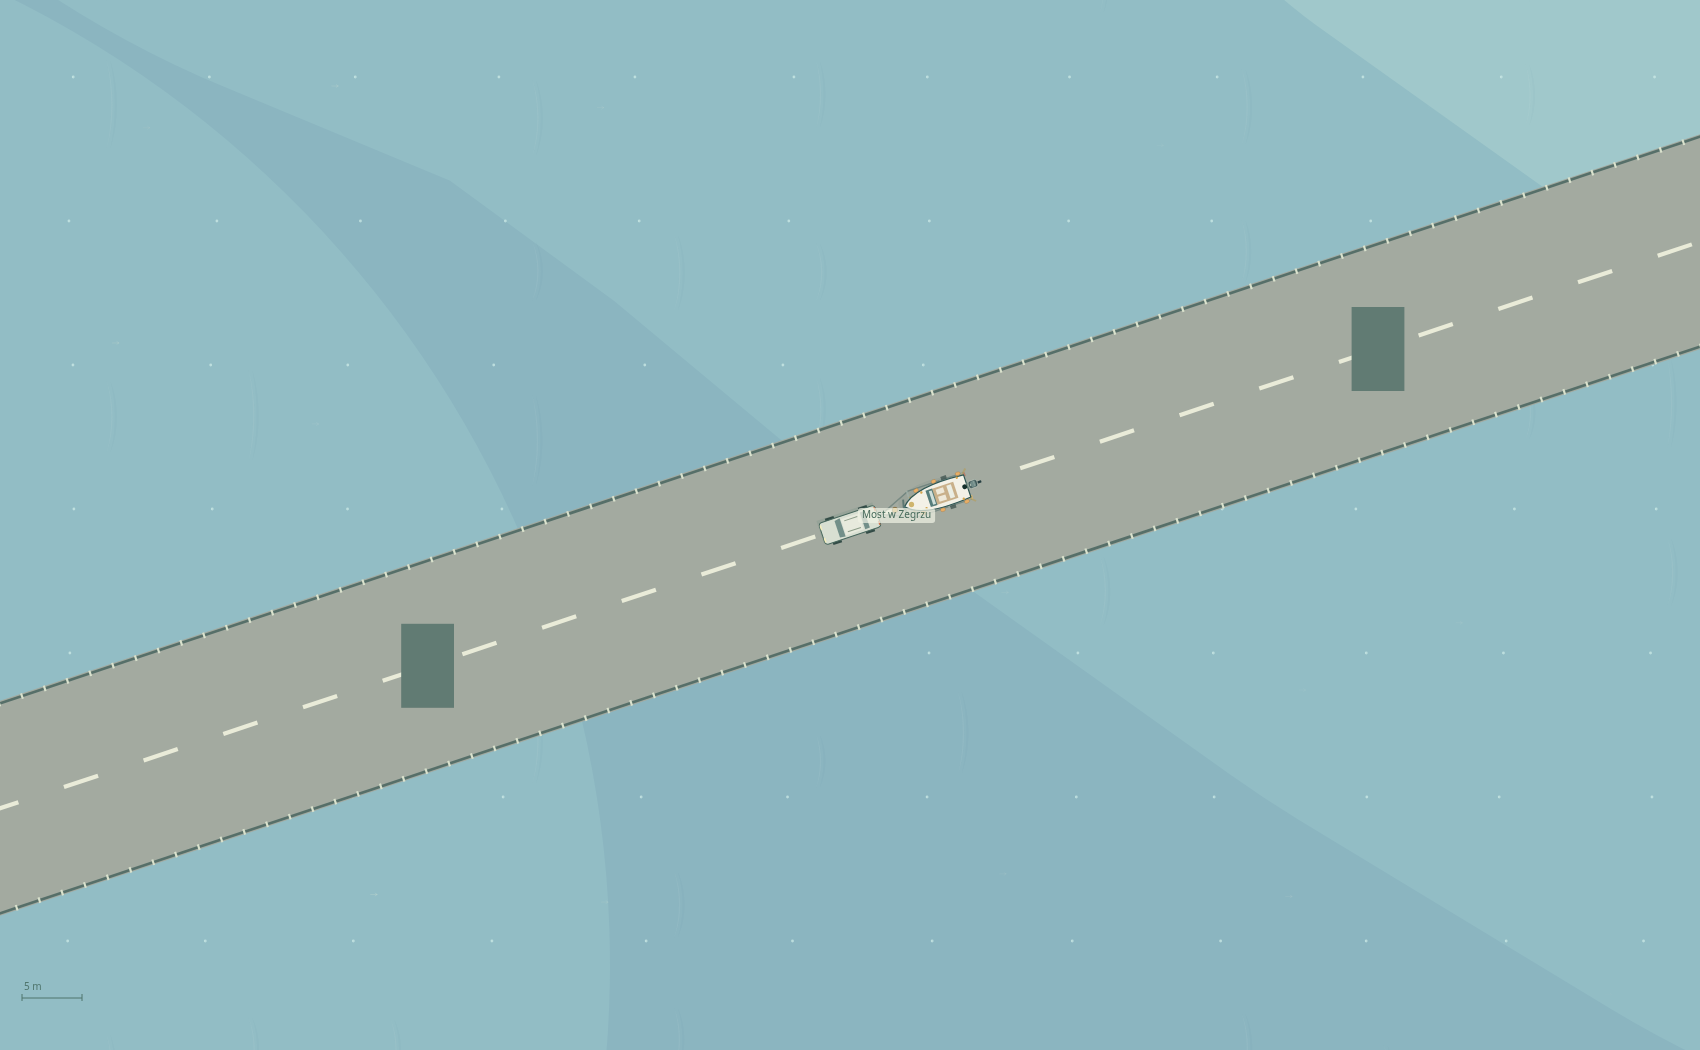
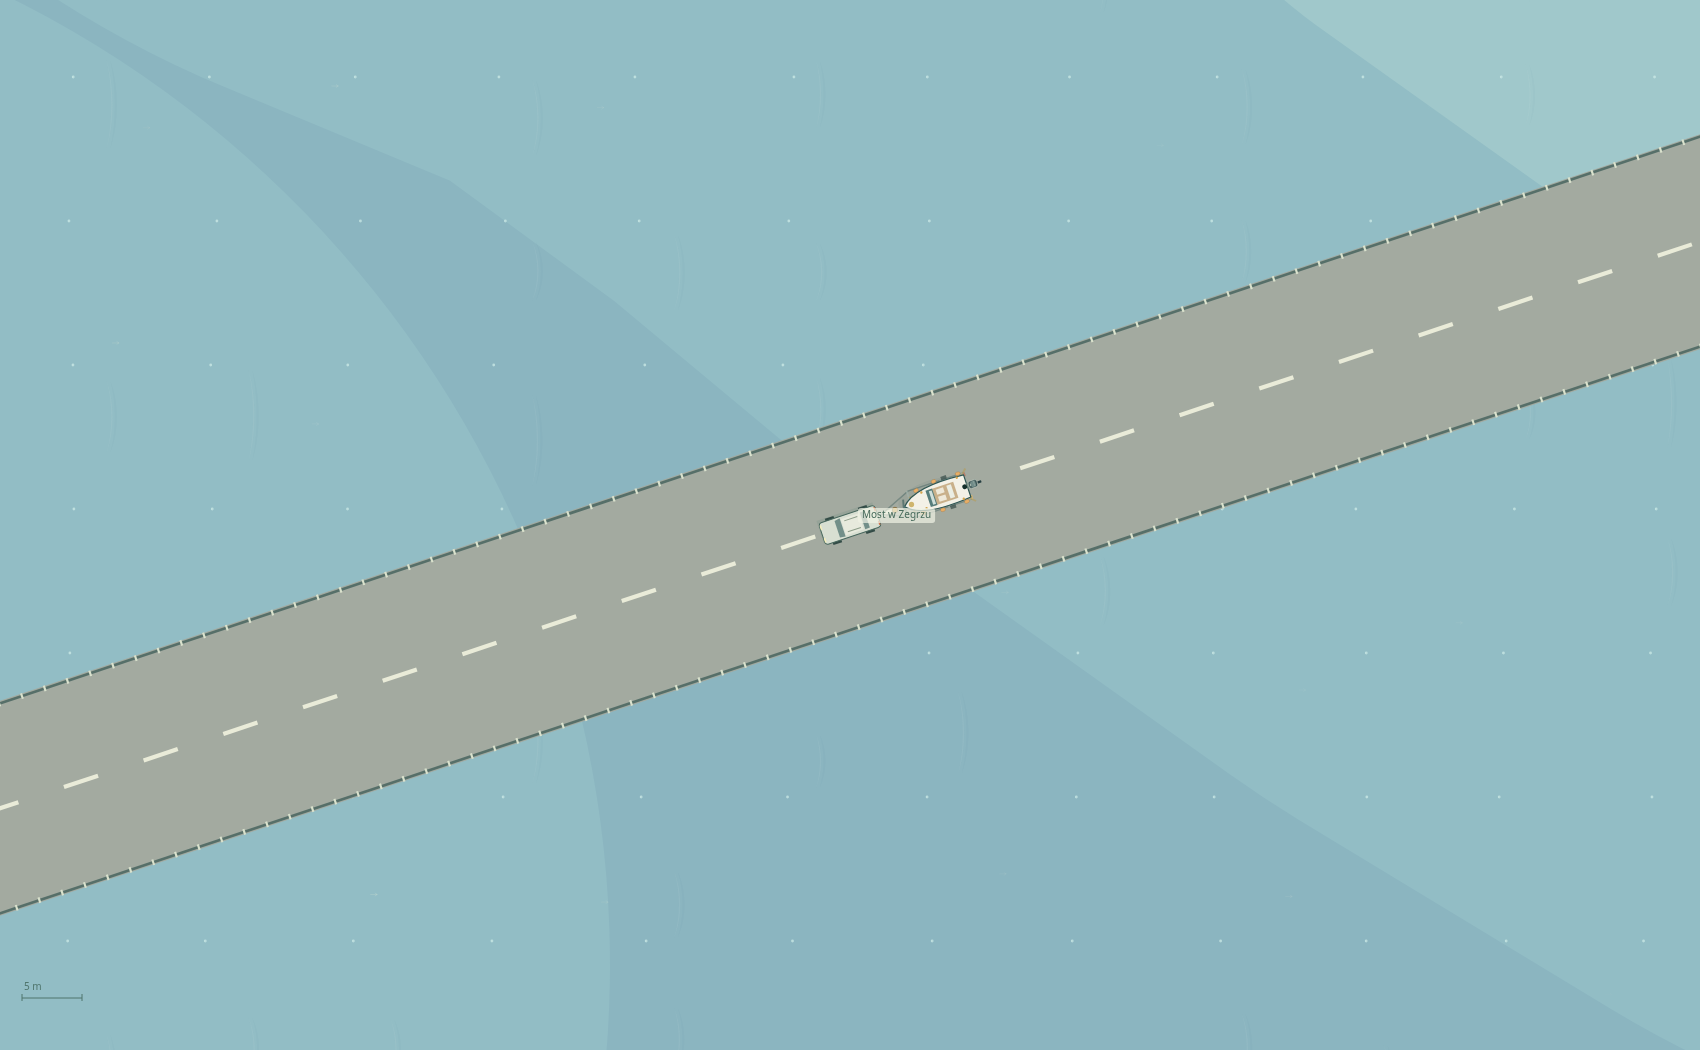
Keep bridge foundations below the road deck

Changed region(s): [[0.7794, 0.2743, 0.8418, 0.3962], [0.2182, 0.579, 0.2806, 0.6705]]

diff --git a/tests/port-revision.spec.js b/tests/port-revision.spec.js
@@ -8,7 +8,7 @@ test('minimap is local, tracks the actual manually positioned camera and changes
  await page.goto('/');const q=await page.evaluate(async()=>{const{renderWorld,renderMinimap}=await import('/src/render.js'),{createBoat}=await import('/src/physics.js');const b=createBoat('lake'),c=document.createElement('canvas'),m=document.createElement('canvas');c.width=1000;c.height=600;m.width=300;m.height=200;return[.7,1.4].map(zoom=>{const view=renderWorld(c.getContext('2d'),{boat:b,env:{},width:1000,height:600,zoom,follow:false,manualCenter:{x:175,y:-30}}),p=renderMinimap(m,b,view);return{p,camera:view.camera};});});expect(q[0].p.worldWidth).toBeCloseTo(q[1].p.worldWidth*2,5);for(const{p,camera}of q){expect(p.left+p.worldWidth/2).toBeCloseTo(camera.x,5);expect(p.top+p.worldHeight/2).toBeCloseTo(camera.y,5);}await page.locator('#begin-session').click();for(const width of[1366,390]){await page.setViewportSize({width,height:844});const r=await page.locator('#minimap').boundingBox();expect(r.width).toBeGreaterThan(width>650?200:140);expect(r.height).toBeGreaterThan(100);}
 });
 test('SUV renders over the bridge deck while boats on the water stay under it',async({page})=>{
- await page.goto('/');const q=await page.evaluate(async()=>{const{renderWorld}=await import('/src/render.js'),{createBoat}=await import('/src/physics.js'),{createTowRig}=await import('/src/towing.js'),{BRIDGES}=await import('/src/world.js');const bridge=BRIDGES.find(q=>q.id==='zegrze'),x=(bridge.a.x+bridge.b.x)/2,y=(bridge.a.y+bridge.b.y)/2,a=Math.atan2(bridge.b.y-bridge.a.y,bridge.b.x-bridge.a.x),b=createBoat('lake'),r=createTowRig(b);Object.assign(r.car,{x,y,a});r.attached=false;const c=document.createElement('canvas');c.width=800;c.height=600;const ctx=c.getContext('2d');renderWorld(ctx,{boat:b,towRig:r,width:800,height:600,env:{},zoom:2,follow:false,manualCenter:{x,y}});const car=[...ctx.getImageData(400,300,1,1).data];b.x=x;b.y=y;b.a=a;r.car.x=200;r.car.y=-50;renderWorld(ctx,{boat:b,towRig:r,width:800,height:600,env:{},zoom:2,follow:false,manualCenter:{x,y}});return{car,waterBoat:[...ctx.getImageData(400,300,1,1).data]};});expect(q.car.slice(0,3)).toEqual([231,234,221]);expect(q.waterBoat.slice(0,3)).not.toEqual(q.car.slice(0,3));
+ await page.goto('/');const q=await page.evaluate(async()=>{const{renderWorld}=await import('/src/render.js'),{createBoat}=await import('/src/physics.js'),{createTowRig}=await import('/src/towing.js'),{BRIDGES}=await import('/src/world.js');const bridge=BRIDGES.find(q=>q.id==='zegrze'),x=(bridge.a.x+bridge.b.x)/2,y=(bridge.a.y+bridge.b.y)/2,a=Math.atan2(bridge.b.y-bridge.a.y,bridge.b.x-bridge.a.x),b=createBoat('lake'),r=createTowRig(b);Object.assign(r.car,{x,y,a});r.attached=false;const c=document.createElement('canvas');c.width=800;c.height=600;const ctx=c.getContext('2d');renderWorld(ctx,{boat:b,towRig:r,width:800,height:600,env:{},zoom:2,follow:false,manualCenter:{x,y}});const car=[...ctx.getImageData(400,300,1,1).data];b.x=x;b.y=y;b.a=a;r.car.x=200;r.car.y=-50;renderWorld(ctx,{boat:b,towRig:r,width:800,height:600,env:{},zoom:2,follow:false,manualCenter:{x,y}});const waterBoat=[...ctx.getImageData(400,300,1,1).data],t=bridge.piers[0],pier={x:bridge.a.x+(bridge.b.x-bridge.a.x)*t,y:bridge.a.y+(bridge.b.y-bridge.a.y)*t};renderWorld(ctx,{boat:b,towRig:r,width:800,height:600,env:{},zoom:2,follow:false,manualCenter:pier});return{car,waterBoat,pierSurface:[...ctx.getImageData(400,300,1,1).data]};});expect(q.car.slice(0,3)).toEqual([231,234,221]);expect(q.waterBoat.slice(0,3)).not.toEqual(q.car.slice(0,3));expect(q.pierSurface[0]).toBeGreaterThanOrEqual(150);
 });
 test('ambient rowboat opens its own draggable mooring controls; one click releases its real line and Continue keeps it untied',async({page})=>{
  const errors=[];page.on('pageerror',e=>errors.push(e.message));await page.clock.install();await page.goto('/');await page.evaluate(async()=>{const{createBoat}=await import('/src/physics.js'),{createFleet}=await import('/src/fleet.js'),{snapshotSession}=await import('/src/session-save.js');const b=createBoat('lake',{coldStart:true});localStorage.setItem('przystan-session-v1',JSON.stringify(snapshotSession({fleet:createFleet(b),env:{traffic:true},vehicle:'boat',ui:{zoom:1,follow:false,manualCenter:{x:16,y:9}}})));});await page.reload();await page.locator('#continue-session').click();await tick(page);const lake=await page.locator('#lake').boundingBox();await page.locator('#lake').click({position:{x:lake.width/2,y:lake.height/2}});await expect(page.locator('#traffic-mooring')).toBeVisible();await page.locator('#traffic-mooring').getByText('Odwiąż',{exact:true}).first().click();let s=await save(page);expect(s.world.traffic.find(q=>q.id==='north-row-16').ropes).toHaveLength(0);await page.reload();await page.locator('#continue-session').click();s=await save(page);expect(s.world.traffic.find(q=>q.id==='north-row-16').ropes).toHaveLength(0);expect(errors).toEqual([]);

diff --git a/src/render.js b/src/render.js
@@ -54,11 +54,11 @@ export function mapProjection(width,height){const scale=Math.min(width/(WORLD.ri
 function drawBridges(ctx,scale,bounds){
  for(const q of BRIDGES){
   if(bounds&&(Math.max(q.a.x,q.b.x)+q.width<bounds.left||Math.min(q.a.x,q.b.x)-q.width>bounds.right||Math.max(q.a.y,q.b.y)+q.width<bounds.top||Math.min(q.a.y,q.b.y)-q.width>bounds.bottom))continue;
+  for(const d of q.abutments??[]){const p=d.pose;ctx.save();ctx.translate(p.x,p.y);ctx.rotate(p.a);ctx.fillStyle='#7c897b';ctx.fillRect(-p.length/2,-p.width/2,p.length,p.width);ctx.restore();}
+  for(const t of q.piers){const x=q.a.x+(q.b.x-q.a.x)*t,y=q.a.y+(q.b.y-q.a.y)*t;ctx.fillStyle='#617b73';ctx.fillRect(x-2.2,y-3.5,4.4,7);}
   ctx.strokeStyle=q.dam?'#8b978b':'#a3aaa0';ctx.lineWidth=q.width;ctx.lineCap='butt';ctx.beginPath();ctx.moveTo(q.a.x,q.a.y);ctx.lineTo(q.b.x,q.b.y);ctx.stroke();
   ctx.strokeStyle='#e9ebd8';ctx.lineWidth=.35;ctx.setLineDash([3,4]);ctx.stroke();ctx.setLineDash([]);
   if(q.rail){const dx=q.b.x-q.a.x,dy=q.b.y-q.a.y,L=Math.hypot(dx,dy),nx=-dy/L,ny=dx/L;ctx.strokeStyle='#59675e';ctx.lineWidth=.25;for(const side of[-1,1]){ctx.beginPath();ctx.moveTo(q.a.x+nx*side*.72,q.a.y+ny*side*.72);ctx.lineTo(q.b.x+nx*side*.72,q.b.y+ny*side*.72);ctx.stroke();}for(let i=0;i<L;i+=1){ctx.beginPath();ctx.moveTo(q.a.x+dx*i/L-nx,q.a.y+dy*i/L-ny);ctx.lineTo(q.a.x+dx*i/L+nx,q.a.y+dy*i/L+ny);ctx.stroke();}}
-  for(const d of q.abutments??[]){const p=d.pose;ctx.save();ctx.translate(p.x,p.y);ctx.rotate(p.a);ctx.fillStyle='#7c897b';ctx.fillRect(-p.length/2,-p.width/2,p.length,p.width);ctx.restore();}
-  for(const t of q.piers){const x=q.a.x+(q.b.x-q.a.x)*t,y=q.a.y+(q.b.y-q.a.y)*t;ctx.fillStyle='#617b73';ctx.fillRect(x-2.2,y-3.5,4.4,7);}
  }
 }
 function drawBridgeGuards(c,r,bounds){c.save();for(const rail of BRIDGE_RAILS){if(bounds&&(rail.x+rail.w<bounds.left||rail.x>bounds.right||rail.y+rail.h<bounds.top||rail.y>bounds.bottom))continue;if(r?.guardDamage?.[rail.id]>=1)continue;const p=rail.pose;c.save();c.translate(p.x,p.y);c.rotate(p.a);c.strokeStyle='#566f69';c.lineWidth=.22;c.beginPath();c.moveTo(-p.length/2,0);c.lineTo(p.length/2,0);c.stroke();c.fillStyle='#dae2cd';for(let x=-p.length/2;x<=p.length/2;x+=2)c.fillRect(x-.09,-.24,.18,.48);c.restore();}c.restore();}
